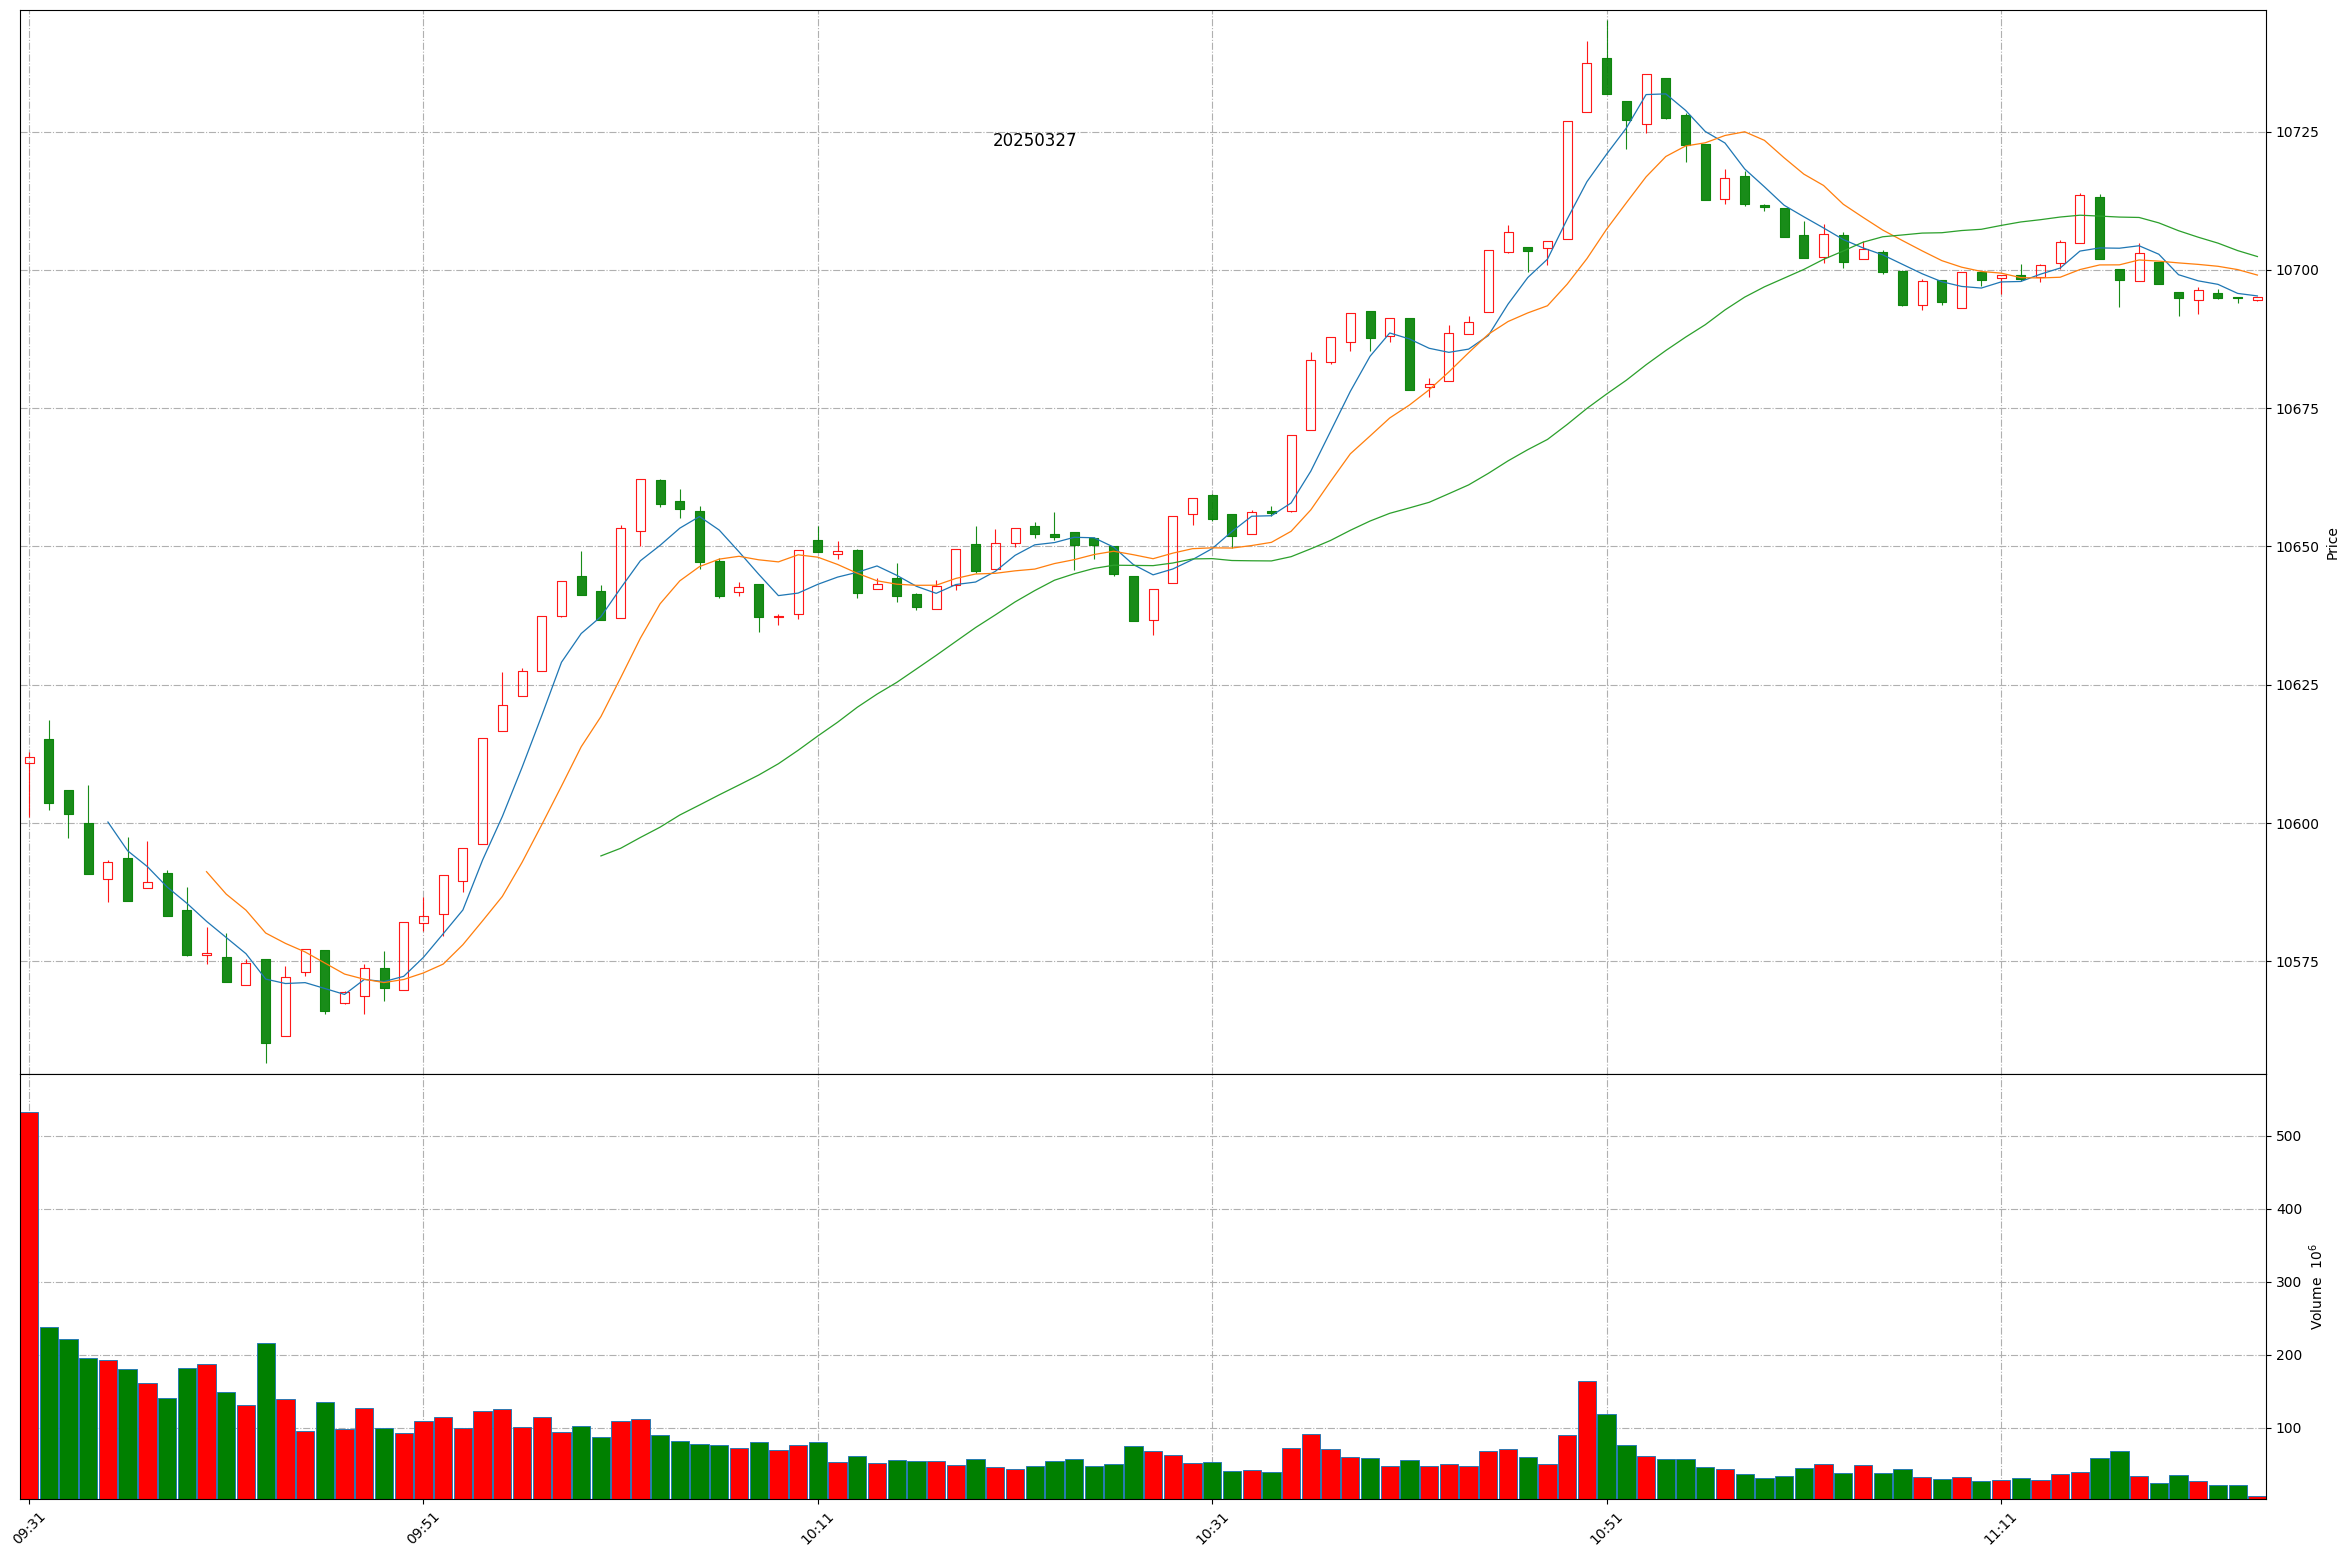
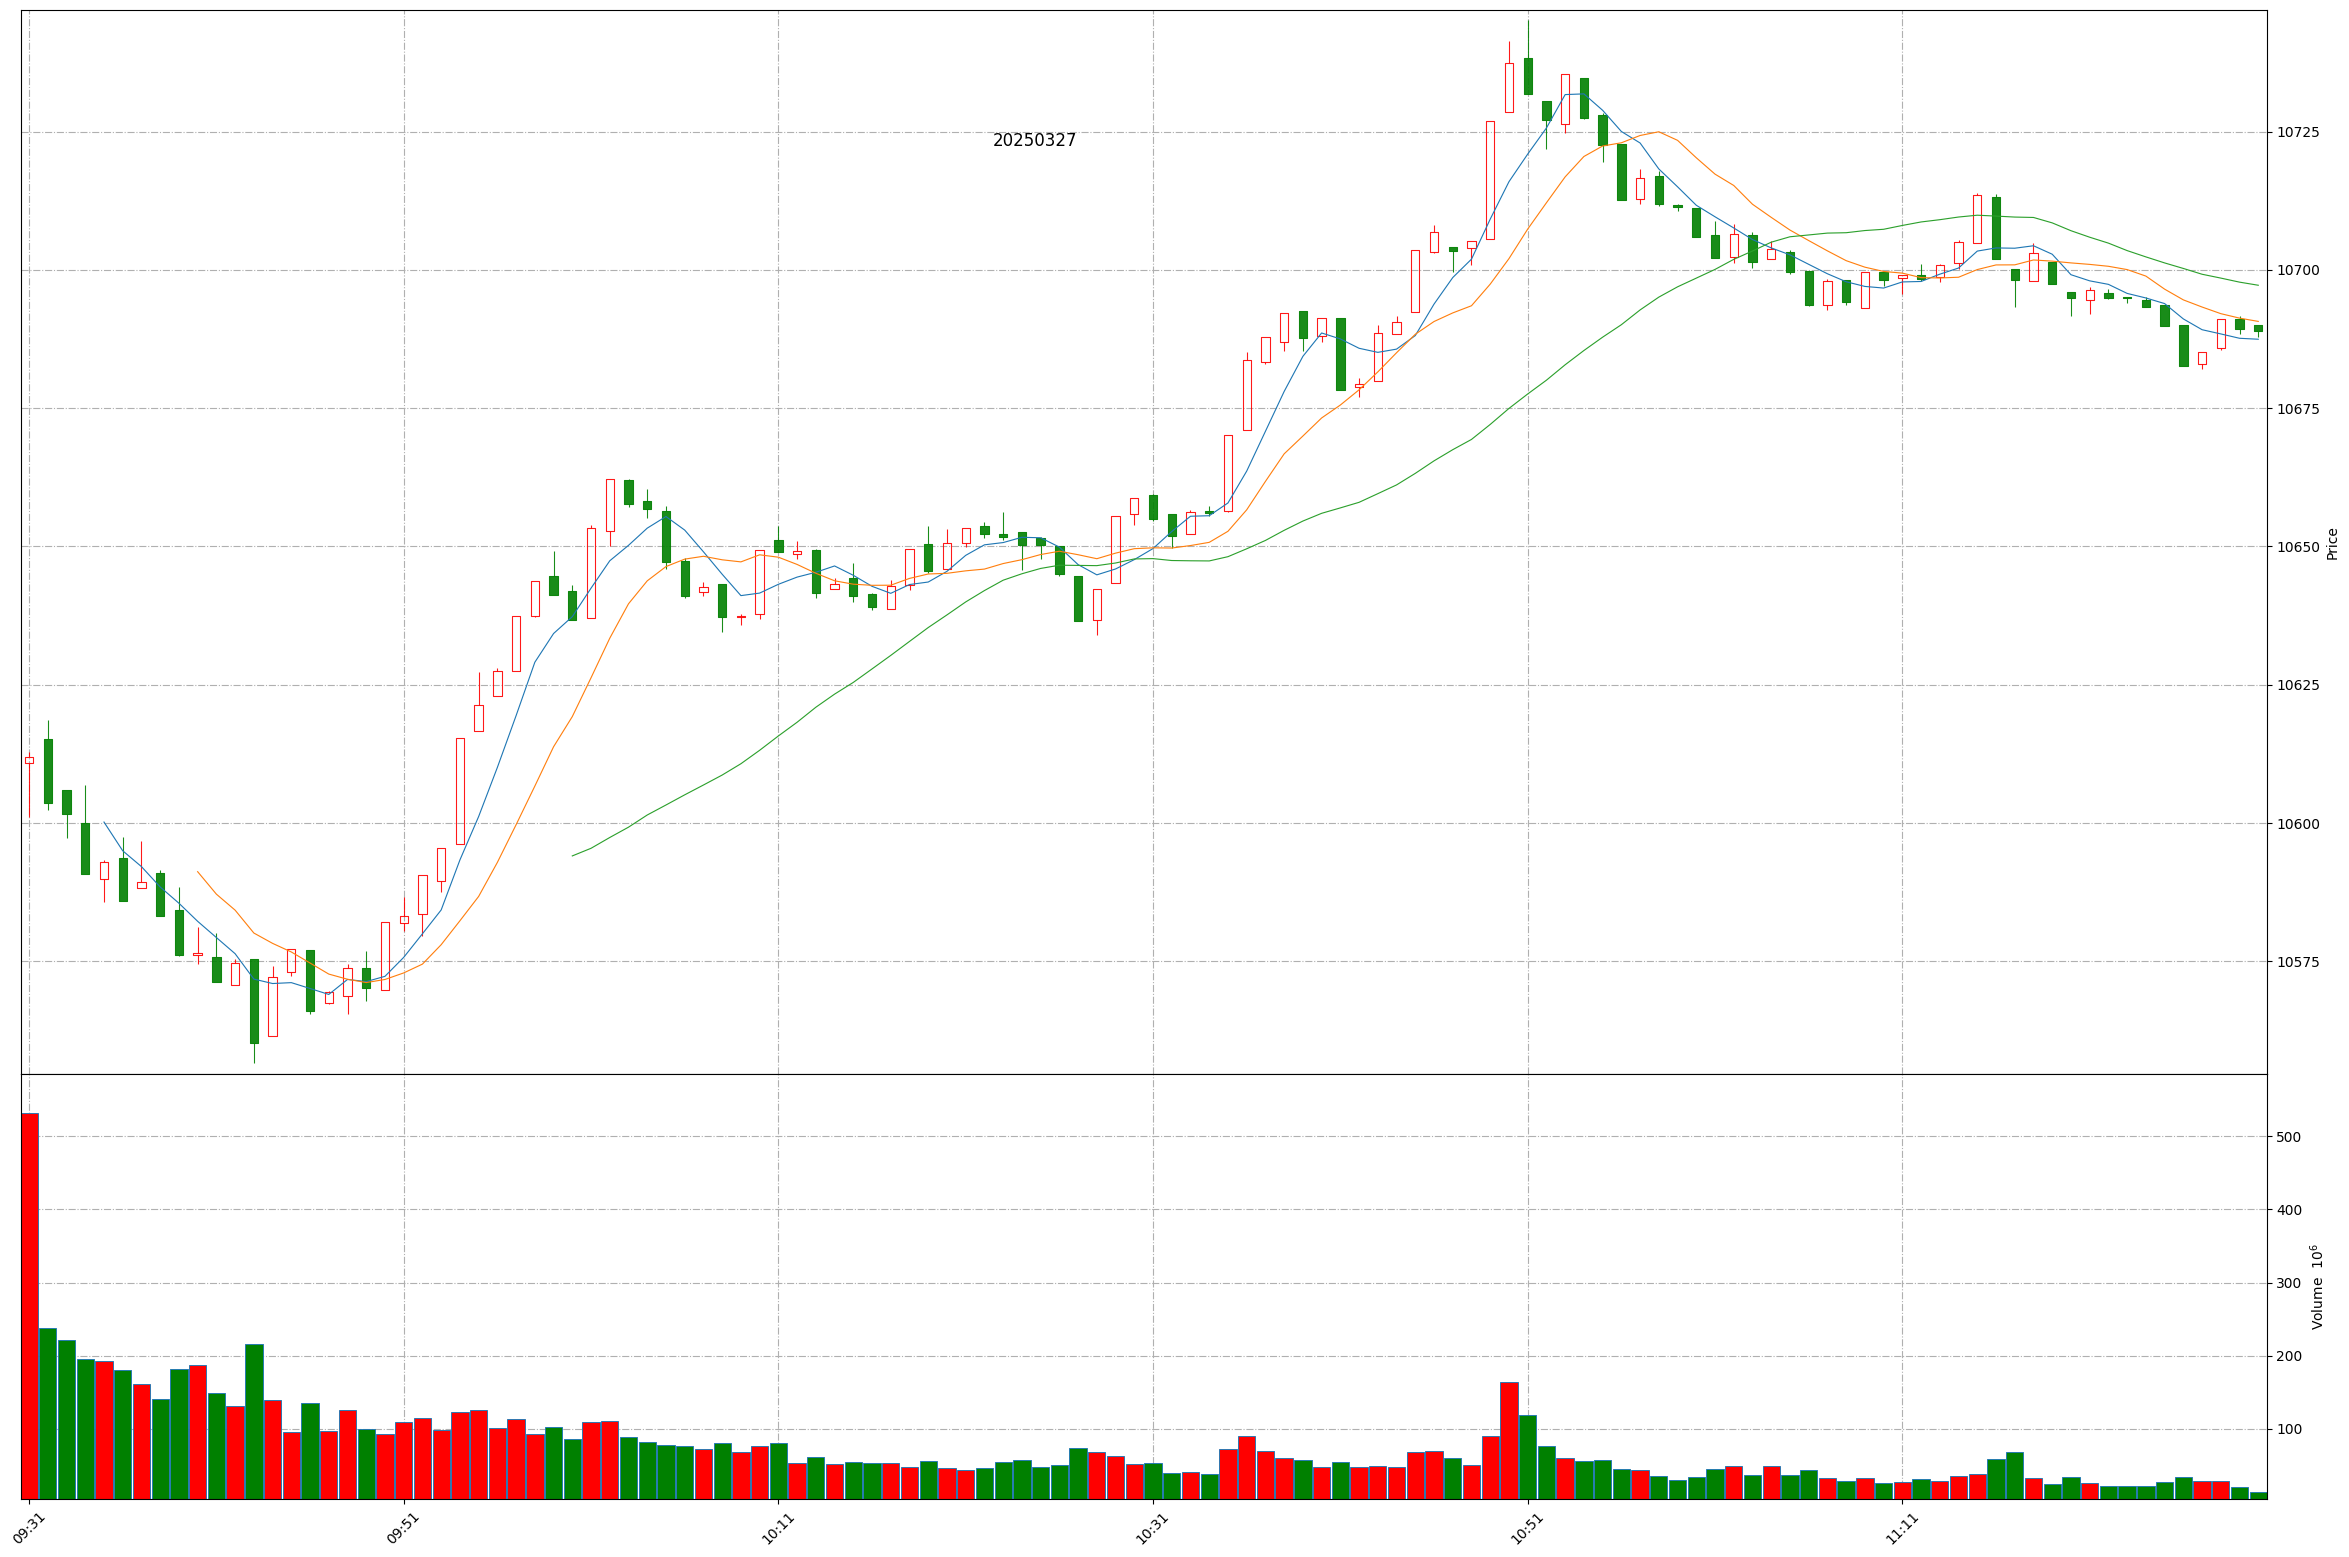
Github action update at 2025-03-27 11:29:44.

diff --git a/README.md b/README.md
@@ -1,11 +1,11 @@
 
 # Daily-A-share-market-quotes 每日 A 股指数（5min 更新）- 20250327
 
-### 上证指数 20250327 11:23
+### 上证指数 20250327 11:29
 ![](./fig/2025/3/20250327-sh000001.png)
 
-### 深证成指 20250327 11:23
+### 深证成指 20250327 11:29
 ![](./fig/2025/3/20250327-sz399001.png)
 
-### 北证50 20250327 11:23
+### 北证50 20250327 11:29
 ![](./fig/2025/3/20250327-bj899050.png)
